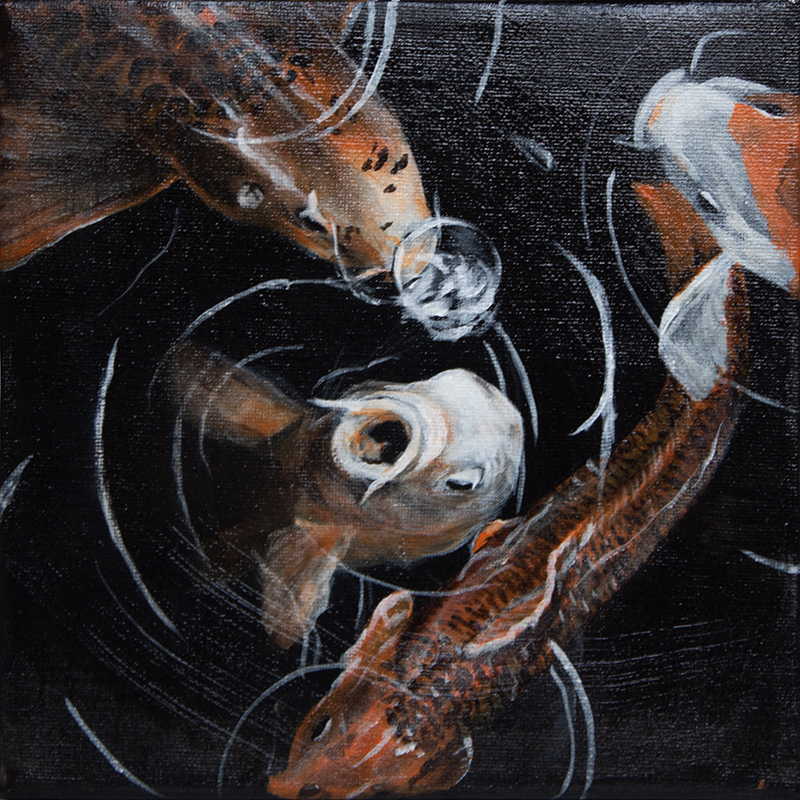
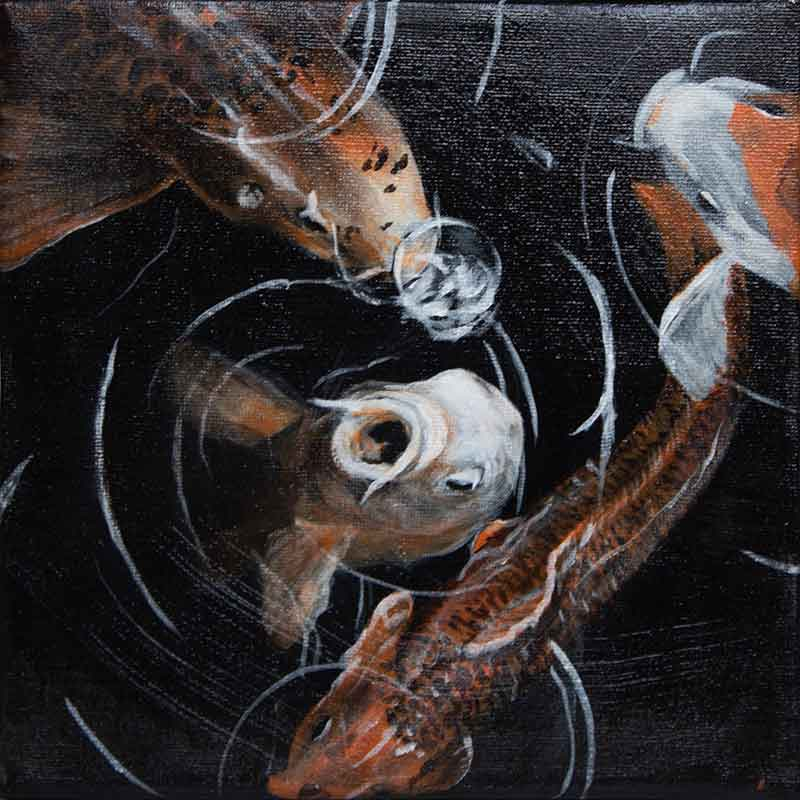
downscale and optimize images

diff --git a/docs/details/nl/details-2.html b/docs/details/nl/details-2.html
@@ -33,7 +33,7 @@
             <article>
                 <section class="container"> 
                     <a href="../../nl/portfolio.html#art2"><div id="button-back">Terug</div></a>
-                    <img id="art1" src="../../assets/images/cicada.png" alt="">
+                    <img id="art1" src="../../assets/images/cicada.jpg" alt="">
                     <div>
                         <h2>Cicade | 2021</h2>
                         <p>

diff --git a/docs/details/en/details-2.html b/docs/details/en/details-2.html
@@ -33,7 +33,7 @@
             <article>
                 <section class="container">
                     <a href="../../en/portfolio.html#art2"><div id="button-back">Back</div></a>
-                    <img id="art1" src="../../assets/images/cicada.png" alt="">
+                    <img id="art1" src="../../assets/images/cicada.jpg" alt="">
                     <div>
                         <h2>Cicada | 2021</h2>
                         <p>

diff --git a/docs/css/portfolio-grid.css b/docs/css/portfolio-grid.css
@@ -26,7 +26,7 @@
 
 .one{background-image: url(../assets/images/cabinet.jpg);}
 
-.two{background-image: url(../assets/images/cicada.png);}
+.two{background-image: url(../assets/images/cicada.jpg);}
 
 .three{background-image: url(../assets/images/forest.jpg);}
 
